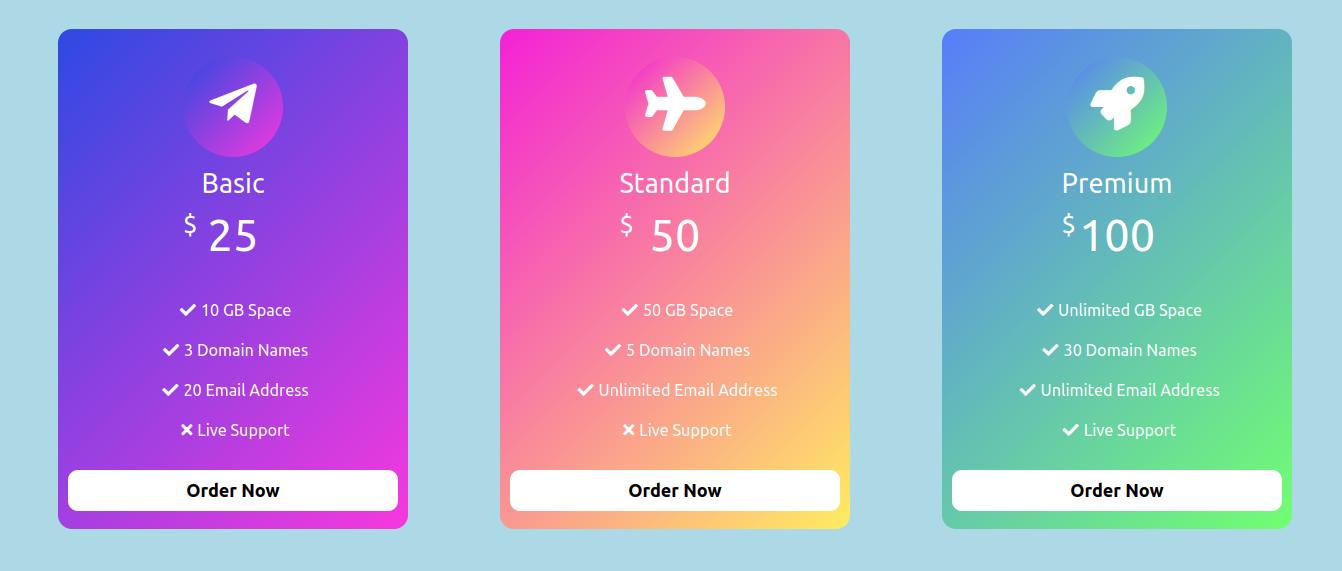
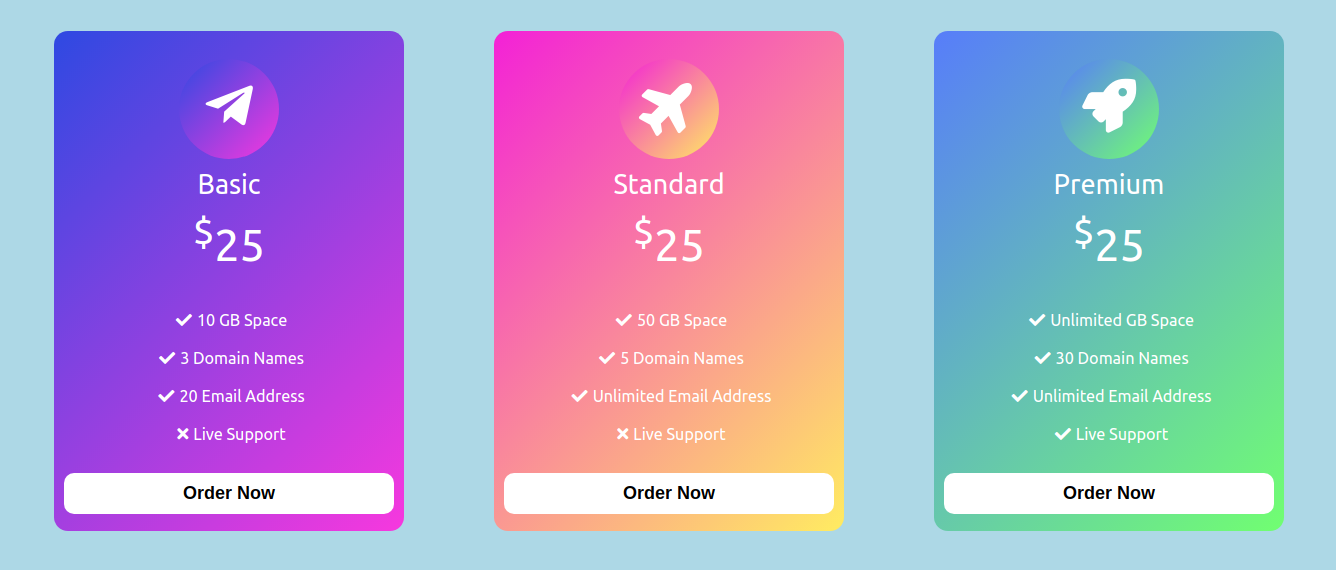
fix some details

diff --git a/index.html b/index.html
@@ -22,8 +22,7 @@
             <p>Basic</p>
           </div>
           <div class="price">
-            <span>$</span>
-            <p>25</p>
+            <p><sup>$</sup>25</p>
           </div>
         </div>
         <div class="card-body">
@@ -52,14 +51,13 @@
       <div class="card bg-standard">
         <div class="card-header">
           <div class="icon bg-standard">
-            <i class="fas fa-plane"></i>
+            <i class="fas fa-plane rotate-45"></i>
           </div>
           <div class="plan">
             <p>Standard</p>
           </div>
           <div class="price">
-            <span>$</span>
-            <p>50</p>
+            <p><sup>$</sup>25</p>
           </div>
         </div>
         <div class="card-body">
@@ -94,8 +92,7 @@
             <p>Premium</p>
           </div>
           <div class="price">
-            <span>$</span>
-            <p>100</p>
+            <p><sup>$</sup>25</p>
           </div>
         </div>
         <div class="card-body">

diff --git a/css/styles.css b/css/styles.css
@@ -20,6 +20,10 @@ img {
   width: 100%;
 }
 
+.rotate-45 {
+  transform: rotate(-45deg);
+}
+
 /* containers */
 .container {
   overflow: hidden;
@@ -96,9 +100,6 @@ img {
 }
 
 .price span {
-  position: absolute;
-  top: 0;
-  left: 0;
   font-size: 1.4rem;
 }
 
